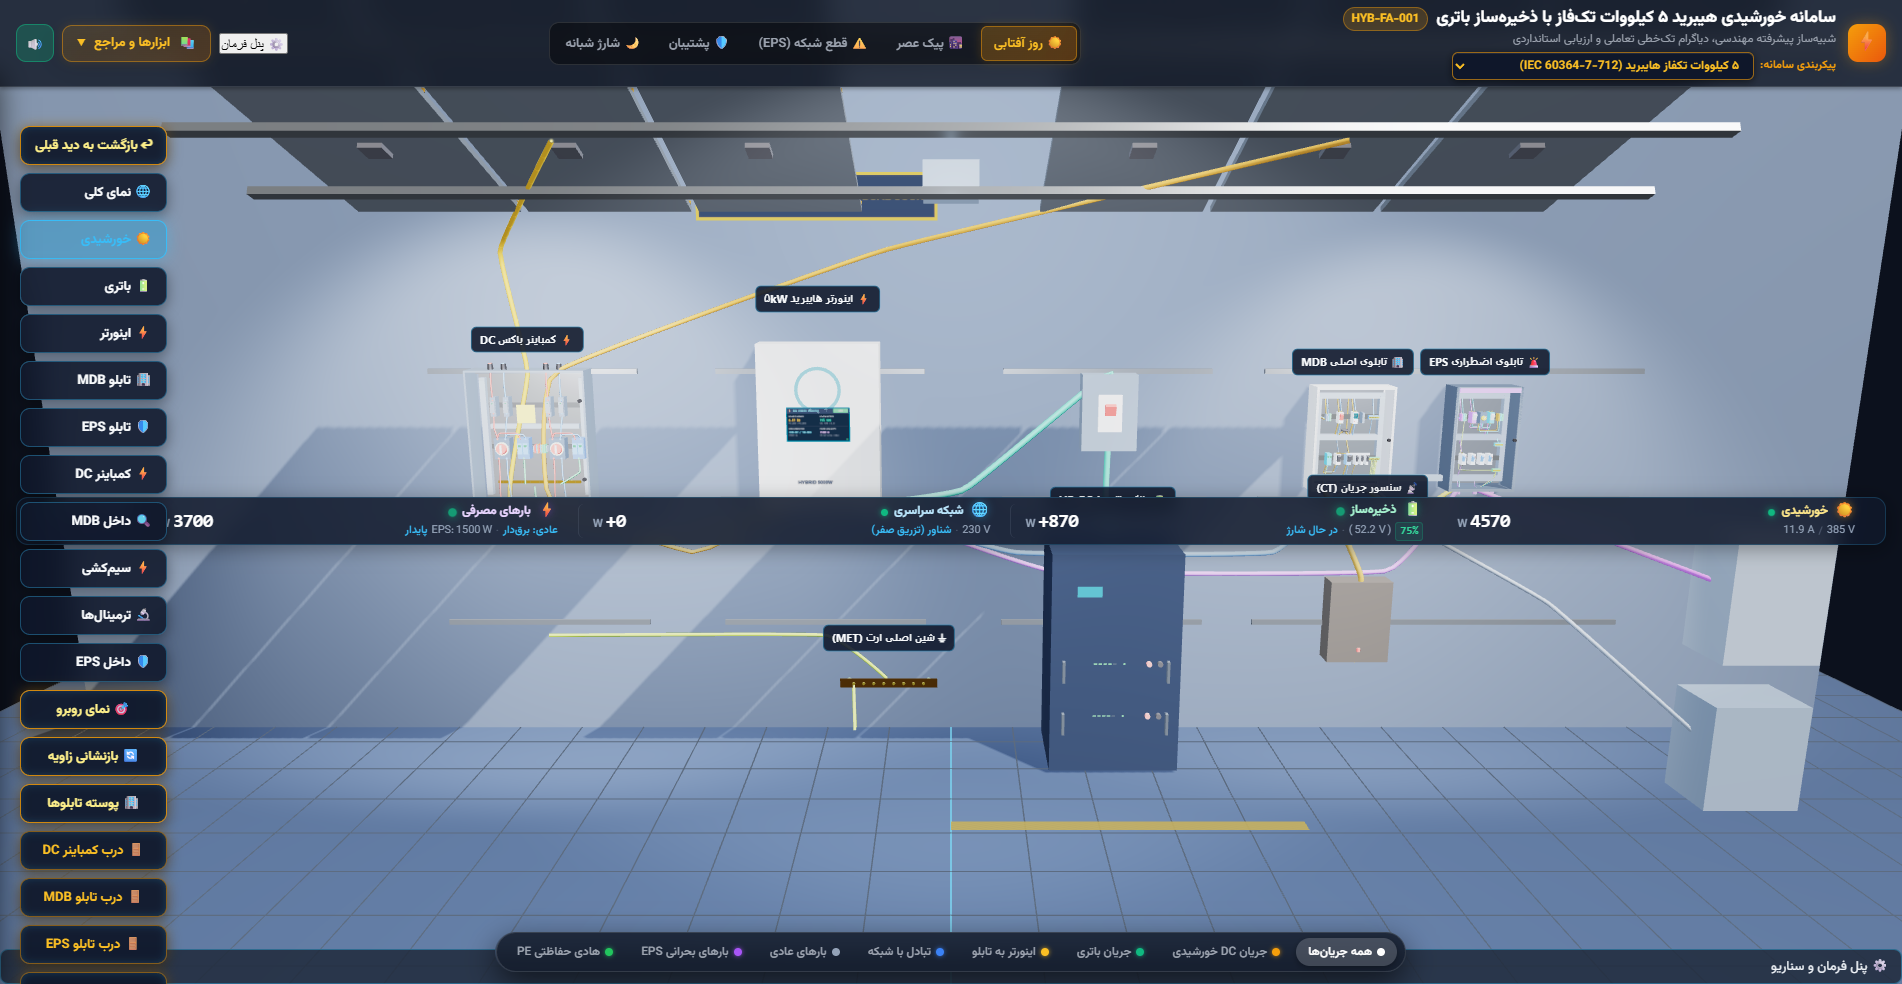
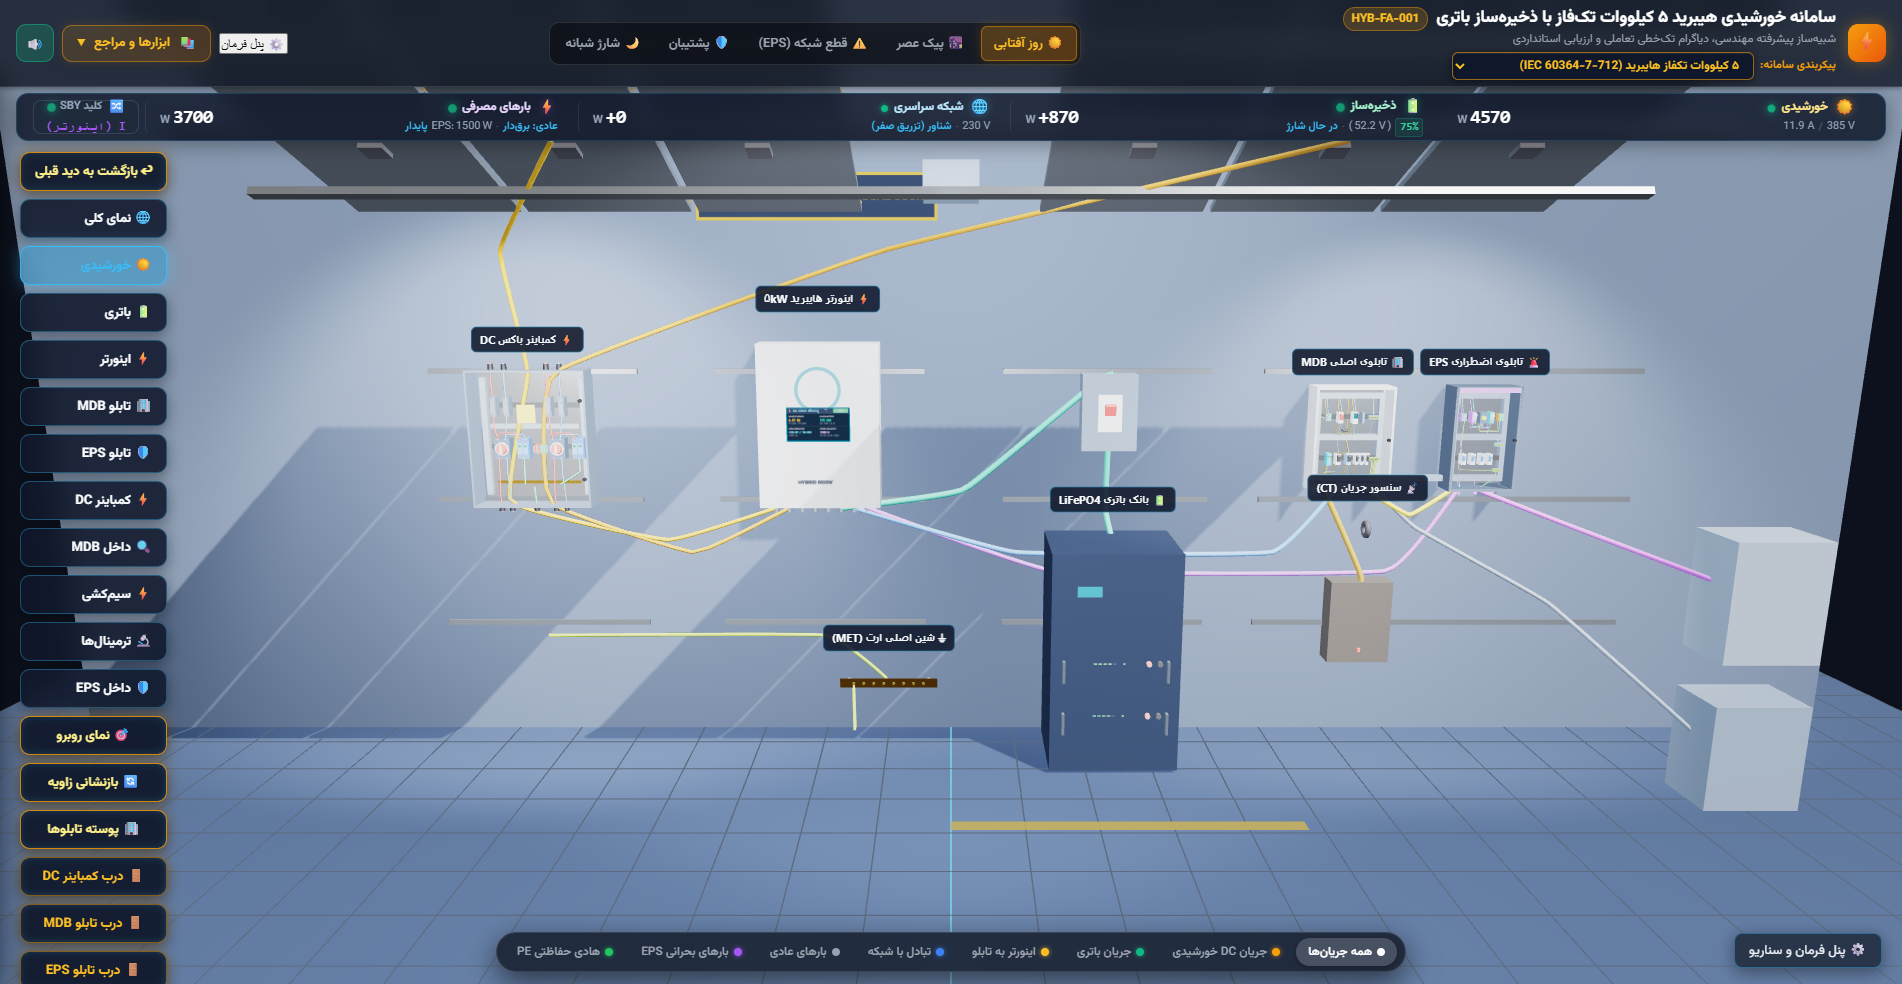
fix(ui): dock telemetry HUD bar directly beneath top header

Changed region(s): [[0.0, 0.0915, 1.0, 1.0]]

diff --git a/css/styles.css b/css/styles.css
@@ -117,7 +117,7 @@ html, body {
   pointer-events: none;
   display: flex;
   flex-direction: column;
-  justify-content: space-between;
+  justify-content: flex-start;
 }
 
 .interactive {
@@ -776,7 +776,7 @@ html, body {
    ========================================================================== */
 .left-cockpit-panel {
   position: absolute;
-  top: 126px;
+  top: 152px;
   right: 16px;
   bottom: 60px;
   width: 320px;
@@ -879,18 +879,23 @@ html, body {
 }
 
 .btn-toggle-cockpit {
+  position: absolute;
+  bottom: 16px;
+  right: 20px;
+  z-index: 20;
   display: inline-flex;
   align-items: center;
   gap: 6px;
   background: rgba(30, 41, 59, 0.85);
   color: #f1f5f9;
   border: 1px solid rgba(56, 189, 248, 0.4);
-  padding: 6px 12px;
+  padding: 6px 14px;
   border-radius: 8px;
   font-size: 0.82rem;
   font-family: inherit;
   cursor: pointer;
   transition: all 0.2s ease;
+  box-shadow: 0 4px 16px rgba(0, 0, 0, 0.4);
 }
 
 .btn-toggle-cockpit:hover, .btn-toggle-cockpit.active {
@@ -2221,7 +2226,7 @@ input[type="range"]::-webkit-slider-thumb:hover {
    ========================================================================== */
 .scenario-banner {
   position: absolute;
-  top: 130px;
+  top: 152px;
   left: 50%;
   transform: translateX(-50%);
   background: rgba(15, 23, 42, 0.92);
@@ -2317,8 +2322,6 @@ input[type="range"]::-webkit-slider-thumb:hover {
     overflow-x: auto;
   }
   .telemetry-bar {
-    top: auto;
-    bottom: 60px;
     height: auto;
     min-height: 48px;
     padding: 4px 8px;
@@ -2334,7 +2337,7 @@ input[type="range"]::-webkit-slider-thumb:hover {
   }
   .left-cockpit-panel {
     width: 260px;
-    top: 110px;
+    top: 152px;
     bottom: 120px;
   }
   .calc-grid {
@@ -2362,7 +2365,7 @@ input[type="range"]::-webkit-slider-thumb:hover {
    ========================================================================== */
 .viewport-quick-bar {
   position: absolute;
-  top: 126px;
+  top: 152px;
   left: 20px;
   display: flex;
   flex-direction: column;

diff --git a/scripts/verify_phase6_7.js b/scripts/verify_phase6_7.js
@@ -220,6 +220,8 @@ setTimeout(async () => {
         const rect = bar.getBoundingClientRect();
         const heightPx = rect.height;
         const heightCompliant = heightPx <= 55;
+        const topPx = rect.top;
+        const topCompliant = topPx >= 60 && topPx <= 120; // Docked directly beneath top-header, not floating in middle
 
         // Segments present
         const solar = document.getElementById('seg-solar');
@@ -246,11 +248,13 @@ setTimeout(async () => {
         return {
           heightPx,
           heightCompliant,
+          topPx,
+          topCompliant,
           allSegmentsPresent,
           readings: { pvP, batP, gridP, loadP },
           parsedNumbers: { pvNum, batNum, gridNum, loadNum },
           numbersValid,
-          passed: heightCompliant && allSegmentsPresent && numbersValid
+          passed: heightCompliant && topCompliant && allSegmentsPresent && numbersValid
         };
       })()`);
 
